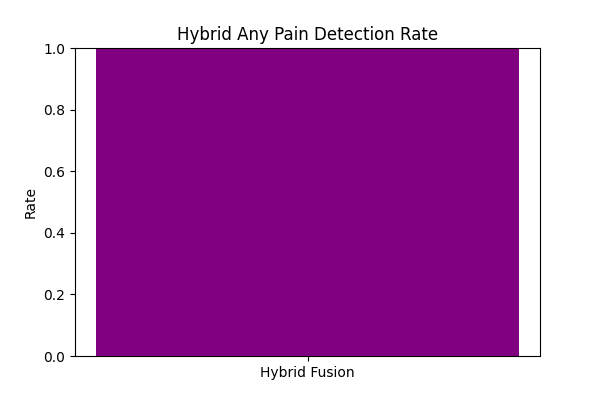
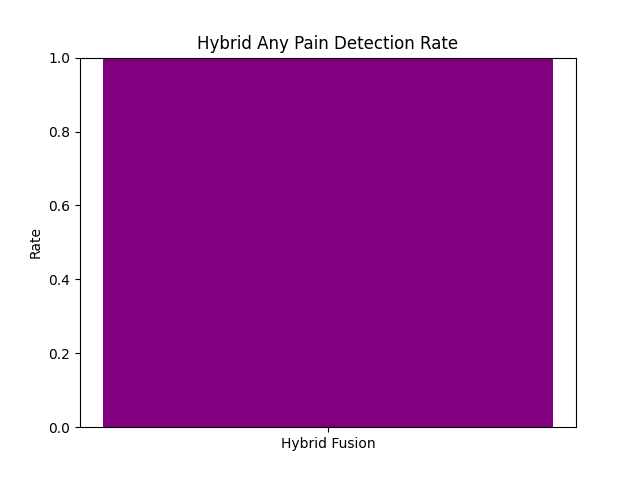
model saved

diff --git a/fusion_hybrid.py b/fusion_hybrid.py
@@ -8,12 +8,14 @@ import seaborn as sns
 import random
 import pandas as pd
 
+
 # ===== 1. Load Logits & Labels for Both Modalities =====
-probs_face = np.load('probs_face.npy').astype(np.float32)          # Face model probs (N, 3)
-probs_posture = np.load('probs_posture.npy').astype(np.float32)    # Posture model probs (M, 3)
+probs_face = np.load('probs_face.npy').astype(np.float32)           # Face model probs (N, 3)
+probs_posture = np.load('probs_posture.npy').astype(np.float32)     # Posture model probs (M, 3)
 y_test_face = np.load('y_test_face_collapsed.npy')
 y_test_posture = np.load('y_test_posture.npy')
 NUM_CLASSES = 3  # Because of collapsed classes
+
 
 # ===== 2. Create Pseudo-Pairs By Label =====
 def make_pseudo_pairs(probs_face, y_face, probs_posture, y_posture, max_pairs_per_class=400):
@@ -29,19 +31,23 @@ def make_pseudo_pairs(probs_face, y_face, probs_posture, y_posture, max_pairs_pe
     random.shuffle(pairs)
     return pairs
 
+
 pairs = make_pseudo_pairs(probs_face, y_test_face, probs_posture, y_test_posture)
 face_logits = np.array([a for a, b, lbl in pairs]).astype(np.float32)
 posture_logits = np.array([b for a, b, lbl in pairs]).astype(np.float32)
 labels = np.array([lbl for a, b, lbl in pairs])
 
+
 print(f"Number of pseudo-pairs: {len(labels)}")
 print(f"Class distribution in pairs: {np.bincount(labels)}")
+
 
 # ===== Compute class weights =====
 classes = np.unique(labels)
 class_weights_arr = compute_class_weight('balanced', classes=classes, y=labels)
 class_weight_dict = {int(c): float(w) for c, w in zip(classes, class_weights_arr)}
 print("Fusion class weights:", class_weight_dict)
+
 
 # ===== 3. Fusion MLP Model =====
 inputs = keras.layers.Input(shape=(NUM_CLASSES*2,))  # 6
@@ -50,6 +56,7 @@ x = keras.layers.Dropout(0.2)(x)
 out = keras.layers.Dense(NUM_CLASSES, activation='softmax')(x)
 fusion_model = keras.Model(inputs, out)
 fusion_model.compile(optimizer='adam', loss='sparse_categorical_crossentropy', metrics=['accuracy'])
+
 
 # ===== 4. Hybrid Meta-Fusion Training Loop with Class Weighting =====
 def hybrid_loss(y_true, y_pred, face_logits, posture_logits):
@@ -67,11 +74,13 @@ def hybrid_loss(y_true, y_pred, face_logits, posture_logits):
     total_loss = ce_loss + 0.5 * contrastive_loss + 0.5 * kl_loss
     return total_loss
 
+
 class HybridLossTrainer:
     def __init__(self, model, class_weight):
         self.model = model
         self.class_weight = class_weight
         self.optimizer = keras.optimizers.Adam()
+
 
     def train_step(self, X, y, face, posture):
         weights = tf.convert_to_tensor([self.class_weight[int(label)] for label in y], dtype=tf.float32)
@@ -87,9 +96,11 @@ class HybridLossTrainer:
         self.optimizer.apply_gradients(zip(grads, self.model.trainable_weights))
         return weighted_loss.numpy()
 
+
 X_fusion = np.concatenate([face_logits, posture_logits], axis=-1).astype(np.float32)
 y_fusion = labels.astype(np.float32)
 trainer = HybridLossTrainer(fusion_model, class_weight_dict)
+
 
 epochs = 30
 batch_size = 32
@@ -103,9 +114,14 @@ for epoch in range(epochs):
         losses.append(loss)
     print(f"Epoch {epoch+1}: Mean Hybrid Loss = {np.mean(losses):.4f}")
 
+# ADD THIS LINE TO SAVE YOUR MODEL
+fusion_model.save('fusion_mlp_model.h5')
+
+
 # ===== 5. Metrics, Confusion Matrix, Plots =====
 y_pred_fusion = np.argmax(fusion_model.predict(X_fusion.astype(np.float32)), axis=1)
 y_true_fusion = labels
+
 
 acc = accuracy_score(y_true_fusion, y_pred_fusion)
 f1 = f1_score(y_true_fusion, y_pred_fusion, average='weighted')
@@ -114,17 +130,22 @@ recall = recall_score(y_true_fusion, y_pred_fusion, average='weighted')
 print(f"\nHybrid Meta-Fusion Accuracy: {acc:.2f}")
 print(f"F1 Score: {f1:.2f} Precision: {precision:.2f} Recall: {recall:.2f}\n")
 
+
 print("Classification Report:\n", classification_report(y_true_fusion, y_pred_fusion))
+
 
 cm = confusion_matrix(y_true_fusion, y_pred_fusion)
 sns.heatmap(cm, annot=True, fmt='d', cmap='viridis')
 plt.title("Hybrid Meta-Fusion Confusion Matrix")
 plt.xlabel("Predicted")
 plt.ylabel("True")
-plt.show()
+plt.savefig("confusion_matrix.png")
+plt.close()
+
 
 pain_classes = [1, 2]
 high_pain_classes = [2]
+
 
 probs_fusion = fusion_model.predict(X_fusion.astype(np.float32))
 pain_detected = np.sum(probs_fusion[:, pain_classes], axis=1) > 0.3
@@ -134,38 +155,7 @@ high_pain_rate = np.mean(high_pain_detected)
 print(f"Hybrid Any Pain Detection Rate: {pain_rate:.2f}")
 print(f"Hybrid High Pain Detection Rate: {high_pain_rate:.2f}")
 
-plt.bar(['Hybrid Fusion'], [pain_rate], color='purple')
-plt.title("Hybrid Any Pain Detection Rate")
-plt.ylabel("Rate")
-plt.ylim(0, 1)
-plt.show()
 
-plt.bar(['Hybrid Fusion'], [high_pain_rate], color='orange')
-plt.title("Hybrid High Pain Detection Rate")
-plt.ylabel("Rate")
-plt.ylim(0, 1)
-plt.show()
-
-results_df = pd.DataFrame({
-    'Metric': ['Accuracy', 'F1', 'Precision', 'Recall', 'Any Pain Detection Rate', 'High Pain Detection Rate'],
-    'Value': [acc, f1, precision, recall, pain_rate, high_pain_rate]
-})
-results_df.to_csv('hybrid_fusion_metrics.csv', index=False)
-print("Results saved to hybrid_fusion_metrics.csv")
-
-# ... (your existing code above remains unchanged)
-
-# Save confusion matrix plot
-plt.figure(figsize=(8,6))
-sns.heatmap(cm, annot=True, fmt='d', cmap='viridis')
-plt.title("Hybrid Meta-Fusion Confusion Matrix")
-plt.xlabel("Predicted")
-plt.ylabel("True")
-plt.savefig("confusion_matrix.png")
-plt.close()
-
-# Save pain detection rate bar plots
-plt.figure(figsize=(6,4))
 plt.bar(['Hybrid Fusion'], [pain_rate], color='purple')
 plt.title("Hybrid Any Pain Detection Rate")
 plt.ylabel("Rate")
@@ -173,7 +163,7 @@ plt.ylim(0, 1)
 plt.savefig("any_pain_detection_rate.png")
 plt.close()
 
-plt.figure(figsize=(6,4))
+
 plt.bar(['Hybrid Fusion'], [high_pain_rate], color='orange')
 plt.title("Hybrid High Pain Detection Rate")
 plt.ylabel("Rate")
@@ -181,12 +171,11 @@ plt.ylim(0, 1)
 plt.savefig("high_pain_detection_rate.png")
 plt.close()
 
-# Save metrics to CSV
+
 results_df = pd.DataFrame({
     'Metric': ['Accuracy', 'F1', 'Precision', 'Recall', 'Any Pain Detection Rate', 'High Pain Detection Rate'],
     'Value': [acc, f1, precision, recall, pain_rate, high_pain_rate]
 })
 results_df.to_csv('hybrid_fusion_metrics.csv', index=False)
-
+print("Results saved to hybrid_fusion_metrics.csv")
 print("Plots saved as PNG files.")
-print("Metrics saved to hybrid_fusion_metrics.csv")
